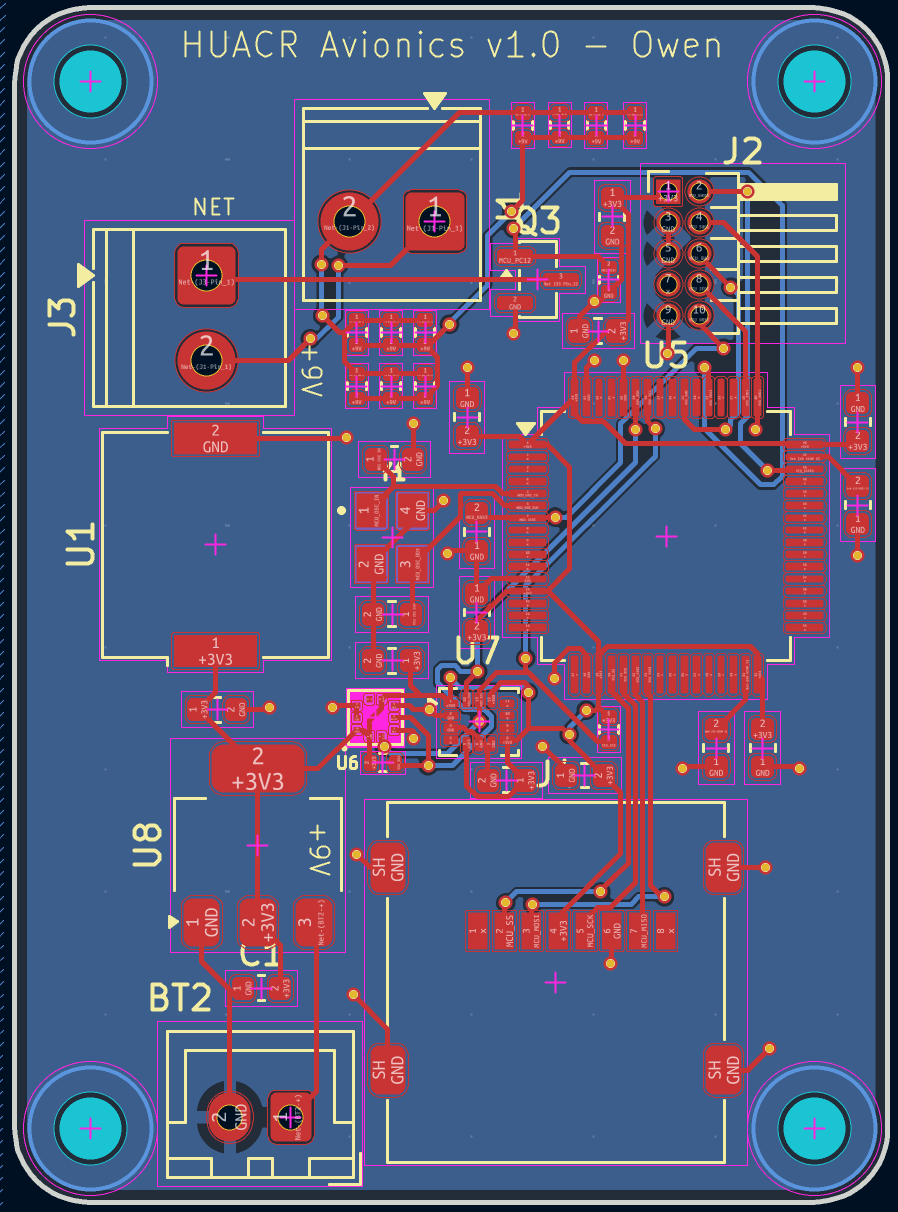
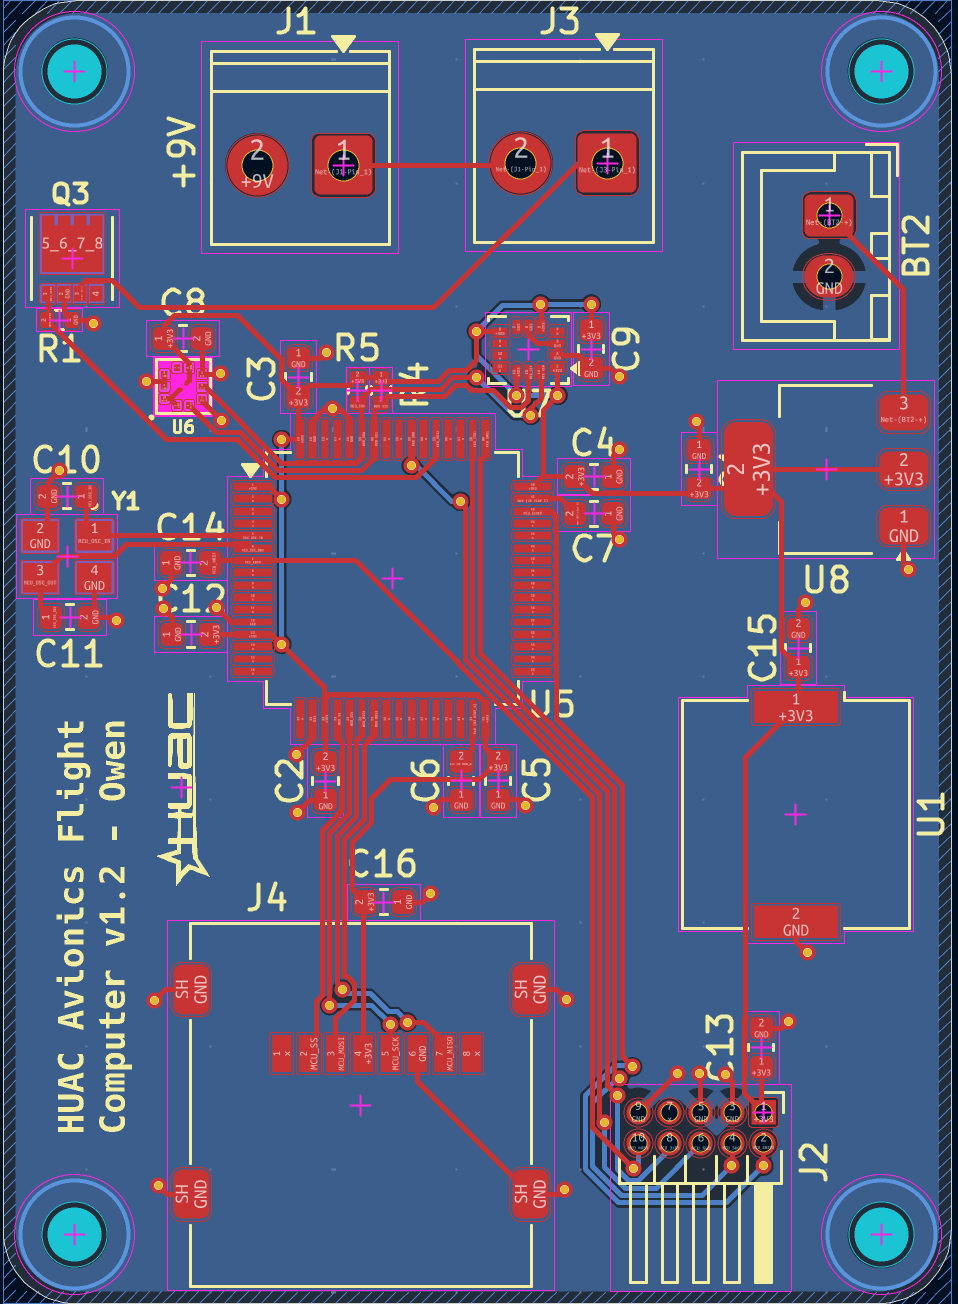
update flight comp

diff --git a/app/flight-computer-history.tsx b/app/flight-computer-history.tsx
@@ -1,0 +1,122 @@
+"use client";
+
+import { useRef, useState } from "react";
+
+const base = "/projects/avionics";
+const boardViews = [
+  { file: "board-3d", label: "3D render" },
+  { file: "pcb-layout", label: "PCB layout" },
+  { file: "schematic", label: "Schematic" },
+];
+
+const stages = [
+  {
+    date: "Nov 2", title: "First board", folder: base + "/history/2026-11-02",
+    description: "The first layout places the controller and microSD footprint on a green v1.0 board.",
+    views: boardViews,
+  },
+  {
+    date: "Nov 12", title: "Schematic revision", folder: base + "/history/2026-11-12",
+    description: "The revised schematic groups the barometer, IMU, and programming header beside the controller.",
+    views: [boardViews[2]],
+  },
+  {
+    date: "Nov 21", title: "Revised layout", folder: base + "/history/2026-11-21",
+    description: "An updated set of drawings shows the revised component placement on the v1.0 board.",
+    views: boardViews,
+  },
+  {
+    date: "Nov 21 · evening", title: "Routing details", folder: base + "/history/2026-11-21",
+    description: "Close-ups of the v1.2 layout follow the traces around the controller and programming header.",
+    views: [
+      { file: "controller-detail", label: "Controller" },
+      { file: "header-detail", label: "Header pins" },
+      { file: "header-footprint", label: "Header footprint" },
+    ],
+  },
+  {
+    date: "Nov 22", title: "Flight computer v1.2", folder: base,
+    description: "The black v1.2 board carries the HUAC mark beside the controller and moves the programming header to the corner by the microSD footprint.",
+    views: boardViews,
+  },
+];
+
+export default function FlightComputerHistory() {
+  const dialog = useRef<HTMLDialogElement>(null);
+  const [isOpen, setIsOpen] = useState(false);
+  const [stageIndex, setStageIndex] = useState(0);
+  const [viewFile, setViewFile] = useState("board-3d");
+  const stage = stages[stageIndex];
+  const view = stage.views.find(({ file }) => file === viewFile) ?? stage.views[0];
+  const src = stage.folder + "/" + view.file + ".png";
+
+  function openHistory() {
+    setStageIndex(0);
+    setViewFile("board-3d");
+    setIsOpen(true);
+    dialog.current?.showModal();
+  }
+
+  return (
+    <>
+      <button type="button" className="history-trigger" aria-haspopup="dialog" onClick={openHistory}>
+        Design history
+      </button>
+      <dialog
+        ref={dialog}
+        className="flight-history"
+        aria-labelledby="flight-history-title"
+        onClose={() => setIsOpen(false)}
+        onClick={(event) => {
+          if (event.target === event.currentTarget) dialog.current?.close();
+        }}
+      >
+        <div className="history-panel">
+          <header className="history-heading">
+            <div>
+              <p className="eyebrow">Flight computer · November 2026</p>
+              <h2 id="flight-history-title">Design history</h2>
+            </div>
+            <button type="button" onClick={() => dialog.current?.close()}>Close</button>
+          </header>
+          {isOpen && (
+            <div className="history-body">
+              <ol className="history-stages" aria-label="Design stages">
+                {stages.map((item, index) => (
+                  <li key={item.title}>
+                    <button type="button" aria-current={index === stageIndex ? "step" : undefined}
+                      onClick={() => setStageIndex(index)}>
+                      <span>{item.date}</span>{item.title}
+                    </button>
+                  </li>
+                ))}
+              </ol>
+              <select className="history-select" aria-label="Design stage" value={stageIndex}
+                onChange={(event) => setStageIndex(Number(event.target.value))}>
+                {stages.map((item, index) => (
+                  <option key={item.title} value={index}>{item.date} · {item.title}</option>
+                ))}
+              </select>
+              <div className="history-content">
+                <div className="history-views" role="group" aria-label="Screenshot view">
+                  {stage.views.map((item) => (
+                    <button key={item.file} type="button" aria-pressed={item.file === view.file}
+                      onClick={() => setViewFile(item.file)}>{item.label}</button>
+                  ))}
+                </div>
+                <figure>
+                  <a className="history-image" href={src} target="_blank" rel="noreferrer">
+                    <img src={src} alt={stage.title + " · " + view.label} />
+                  </a>
+                  <figcaption>
+                    {stage.description} <a href={src} target="_blank" rel="noreferrer">View full size</a>
+                  </figcaption>
+                </figure>
+              </div>
+            </div>
+          )}
+        </div>
+      </dialog>
+    </>
+  );
+}

diff --git a/app/globals.css b/app/globals.css
@@ -564,7 +564,8 @@ footer a {
   align-items: start;
 }
 .avionics-render {
-  max-width: 340px;
+  width: 100%;
+  max-width: 460px;
   justify-self: center;
 }
 .avionics-render img {
@@ -627,12 +628,163 @@ footer a {
     grid-template-columns: 1fr;
   }
   .avionics-render {
-    width: 100%;
-    max-width: 280px;
+    max-width: 400px;
   }
   .pcb-detail {
     max-width: 280px;
     justify-self: center;
+  }
+}
+
+
+.avionics-overview .links {
+  align-items: center;
+}
+.history-trigger,
+.flight-history button {
+  cursor: pointer;
+  color: var(--accent);
+}
+.history-trigger,
+.history-heading button {
+  padding: 3px 12px;
+  border: 1px solid #b9c6c9;
+  border-radius: 4px;
+  font-size: 0.875rem;
+}
+.history-trigger:hover,
+.flight-history button:hover {
+  background: #edf1ef;
+}
+.history-trigger:focus-visible,
+.flight-history :is(button, select, a):focus-visible {
+  outline: 2px solid var(--accent);
+  outline-offset: 2px;
+}
+html:has(.flight-history[open]) {
+  overflow: hidden;
+}
+.flight-history {
+  width: min(780px, calc(100% - 28px));
+  max-height: min(86dvh, 760px);
+  margin: auto;
+  padding: 0;
+  overflow: auto;
+  overscroll-behavior: contain;
+  border: 1px solid var(--line);
+  border-radius: 8px;
+  background: var(--paper);
+  color: var(--ink);
+  box-shadow: 0 14px 60px #18202530;
+}
+.flight-history::backdrop {
+  background: rgb(24 32 36 / 48%);
+}
+.history-panel {
+  padding: clamp(16px, 3vw, 28px);
+}
+.history-heading {
+  display: flex;
+  align-items: center;
+  justify-content: space-between;
+  gap: 16px;
+  padding-bottom: 16px;
+  border-bottom: 1px solid var(--line);
+}
+.history-heading .eyebrow {
+  margin-bottom: 5px;
+}
+.history-body {
+  display: grid;
+  grid-template-columns: 168px minmax(0, 1fr);
+  gap: 20px;
+  margin-top: 18px;
+}
+.history-body .history-stages {
+  list-style: none;
+  margin: 0;
+  padding: 0;
+}
+.history-stages li {
+  margin: 0;
+  padding: 0;
+}
+.history-stages button {
+  display: block;
+  width: 100%;
+  padding: 9px 12px;
+  border-left: 2px solid var(--line);
+  color: var(--ink);
+  text-align: left;
+  line-height: 1.35;
+}
+.history-stages button span {
+  display: block;
+  margin-bottom: 3px;
+  color: var(--muted);
+  font-size: 0.8rem;
+}
+.history-stages button[aria-current] {
+  border-color: var(--accent);
+  background: #e8eeec;
+}
+.history-select {
+  display: none;
+}
+.history-views {
+  display: flex;
+  flex-wrap: wrap;
+  gap: 5px;
+  margin-bottom: 10px;
+}
+.history-views button {
+  padding: 4px 10px;
+  border: 1px solid var(--line);
+  border-radius: 4px;
+}
+.history-views button[aria-pressed="true"] {
+  background: var(--accent);
+  color: white;
+  border-color: var(--accent);
+}
+.history-image {
+  display: grid;
+  place-items: center;
+  height: clamp(155px, 39dvh, 330px);
+  background: #eeefec;
+  border: 1px solid var(--line);
+  border-radius: 4px;
+  overflow: hidden;
+}
+.history-image img {
+  width: 100%;
+  height: 100%;
+  min-height: 0;
+  object-fit: contain;
+}
+.history-content figcaption {
+  font-size: 0.875rem;
+}
+.history-content figcaption a {
+  white-space: nowrap;
+  text-decoration: underline;
+}
+@media (max-width: 600px) {
+  .history-body {
+    grid-template-columns: minmax(0, 1fr);
+    gap: 12px;
+  }
+  .history-stages {
+    display: none;
+  }
+  .history-select {
+    display: block;
+    width: 100%;
+    padding: 8px;
+    border: 1px solid var(--line);
+    border-radius: 4px;
+    background: white;
+    font-size: 1rem;
   }
 }
 

diff --git a/app/page.tsx b/app/page.tsx
@@ -1,3 +1,4 @@
+import FlightComputerHistory from "./flight-computer-history";
 import ProjectDemo from "./project-demo";
 import ScrollTransitions from "./scroll-transitions";
 import type { ReactNode } from "react";
@@ -157,9 +158,9 @@ export default function Home() {
                   brings sensing, storage, and power onto a single PCB.
                 </p>
                 <p>
-                  The layout places the battery input and regulator at one end,
-                  the sensor packages near the microcontroller, and the external
-                  connections at the other end. Four mounting holes secure the
+                  The v1.2 layout places the controller near the center, the
+                  screw terminals along one edge, and the microSD footprint
+                  near the programming header. Four mounting holes secure the
                   board in the avionics assembly.
                 </p>
                 <p className="tech">KiCad · PCB design · STM32 · I²C · SPI</p>
@@ -170,6 +171,7 @@ export default function Home() {
                   <External href="/projects/avionics/pcb-layout.png">
                     PCB layout
                   </External>
+                  <FlightComputerHistory />
                 </div>
               </div>
               <figure className="avionics-render">
@@ -180,12 +182,12 @@ export default function Home() {
                 >
                   <img
                     src="/projects/avionics/board-3d.png"
-                    width="904"
-                    height="1262"
-                    alt="3D CAD render of Owen’s HUACR Avionics v1.0 PCB, showing the microcontroller, connectors, sensor packages, and four mounting holes."
+                    width="1250"
+                    height="892"
+                    alt="Black HUAC v1.2 flight computer PCB with the controller in the center, green screw terminals on the right, and four corner mounting holes."
                   />
                 </a>
-                <figcaption>HUACR Avionics v1.0 · 3D PCB render</figcaption>
+                <figcaption>HUAC flight computer v1.2 · 3D PCB render</figcaption>
               </figure>
             </div>
             <h4 className="technical-heading">Hardware architecture</h4>
@@ -231,8 +233,8 @@ export default function Home() {
                 >
                   <img
                     src="/projects/avionics/schematic.png"
-                    width="1798"
-                    height="1358"
+                    width="1432"
+                    height="1094"
                     loading="lazy"
                     alt="Flight-computer schematic showing the STM32F405, barometer, IMU, regulator, microSD socket, debug header, and output circuitry."
                   />
@@ -256,8 +258,8 @@ export default function Home() {
                 >
                   <img
                     src="/projects/avionics/pcb-layout.png"
-                    width="898"
-                    height="1212"
+                    width="958"
+                    height="1304"
                     loading="lazy"
                     alt="KiCad PCB layout showing component placement, routed traces, copper fill, and mounting holes."
                   />
